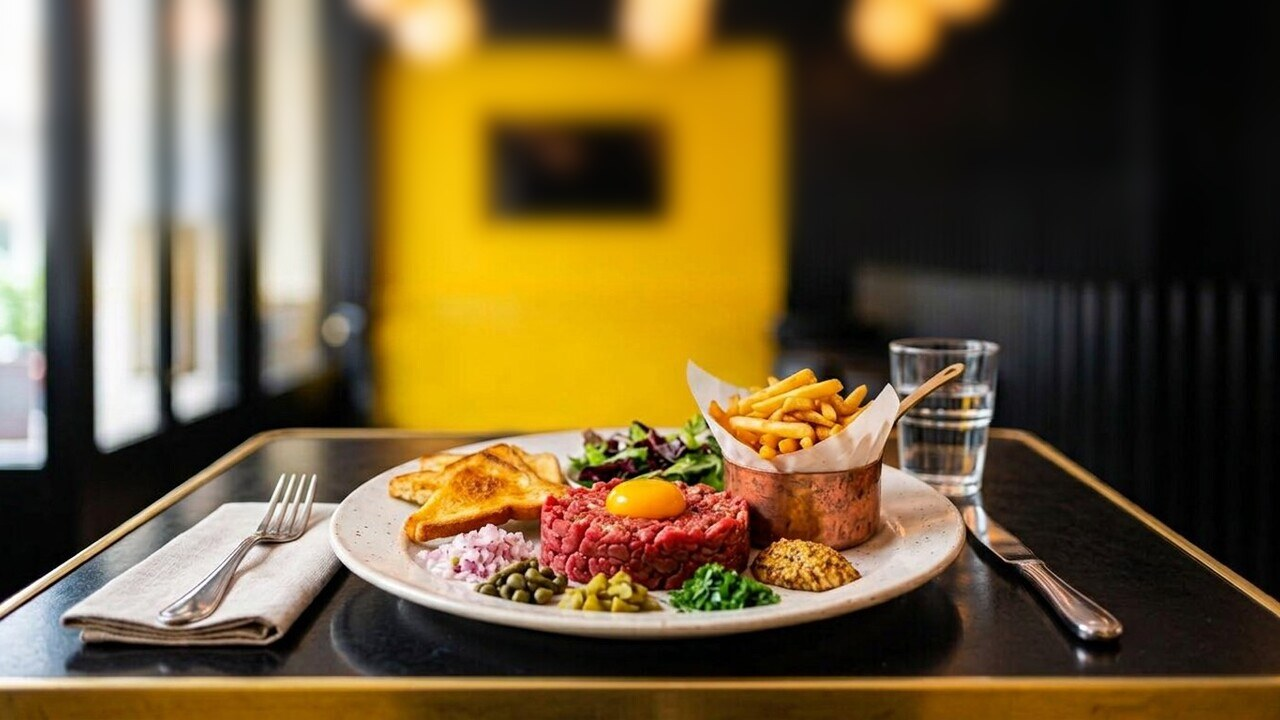
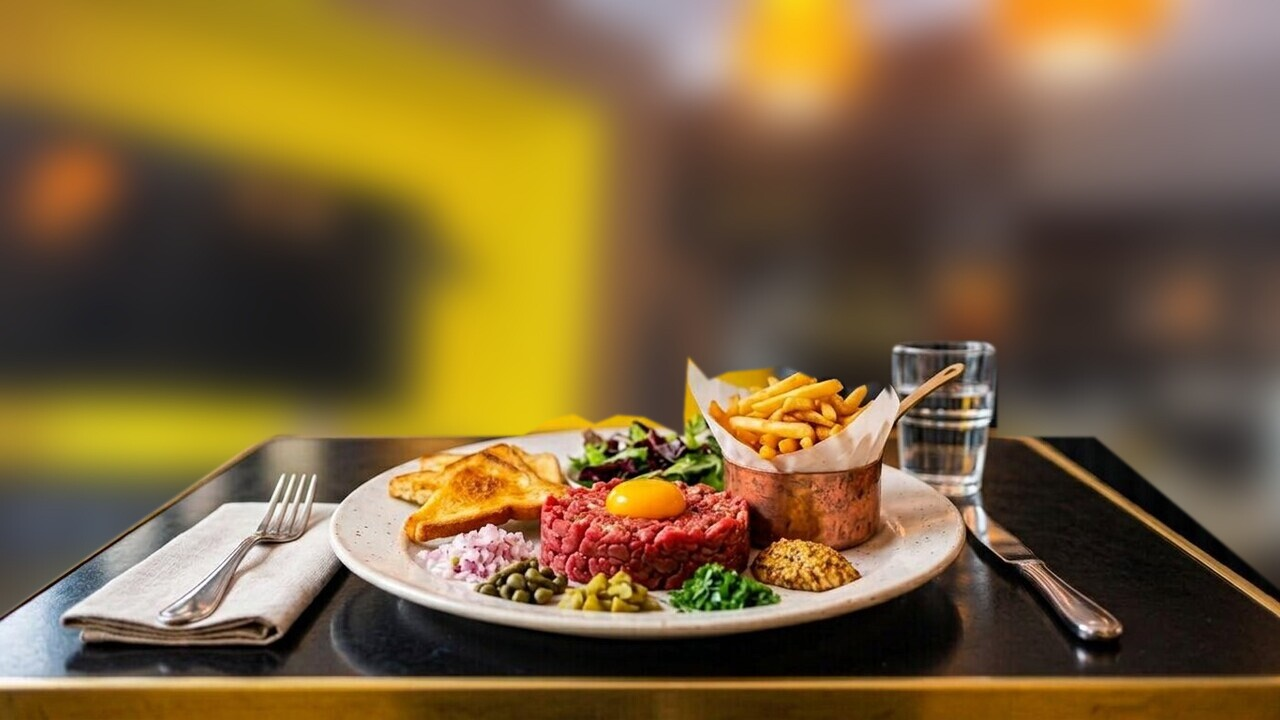
Tartare : utiliser la vraie photo TV-bar floutée sans réinventer le décor

diff --git a/index.html b/index.html
@@ -11341,7 +11341,7 @@ html:not(.carte-doc) #plats .food-card--decor45 .food-card__photo img {
     </div>
     <div class="container">
       <section id="entrees" class="menu-section active"><div class="tab-flow"><article class="panel"><div class="panel__head"><h4 class="panel__title">Entrées</h4></div><div class="food-card-grid food-card-grid--wide"><article class="food-card menu-card-grid__item" data-photo="assets/plats/assiette-de-foie-gras-du-sud-ouest.jpg"><div class="food-card__head"><div class="food-card__lead"><h5>Assiette de foie gras du Sud-Ouest</h5><span class="food-card__note">Pain toasté, confiture d’abricots</span></div><strong>17,90</strong></div></article><article class="food-card menu-card-grid__item" data-photo="assets/plats/oeuf-dur-mayonnaise.jpg"><div class="food-card__head"><div class="food-card__lead"><h5>Œuf dur mayonnaise</h5></div><strong>6,20</strong></div></article><article class="food-card menu-card-grid__item" data-photo="assets/plats/6-escargots-au-roquefort.jpg"><div class="food-card__head"><div class="food-card__lead"><h5>6 Escargots au Roquefort</h5></div><strong>7,90</strong></div></article><article class="food-card menu-card-grid__item" data-photo="assets/plats/assiette-de-saumon-fume.jpg"><div class="food-card__head"><div class="food-card__lead"><h5>Assiette de saumon fumé</h5></div><strong>7,50</strong></div></article><article class="food-card menu-card-grid__item" data-photo="assets/plats/tartare-d-avocat-et-crevettes.jpg"><div class="food-card__head"><div class="food-card__lead"><h5>Tartare d’avocat et crevettes</h5></div><strong>7,90</strong></div></article><article class="food-card menu-card-grid__item" data-photo="assets/plats/oeuf-cocotte-du-moment.jpg"><div class="food-card__head"><div class="food-card__lead"><h5>Œuf cocotte du moment</h5></div><strong>7,90</strong></div></article></div></article><article class="panel"><div class="panel__head"><h4 class="panel__title">Planches &amp; croques</h4></div><div class="food-card-grid food-card-grid--wide"><article class="food-card menu-card-grid__item" data-photo="assets/plats/la-cochonnaille.jpg"><div class="food-card__head"><div class="food-card__lead"><h5>La Cochonnaille</h5></div><strong>17,50</strong></div></article><article class="food-card menu-card-grid__item" data-photo="assets/plats/la-fromagere.jpg"><div class="food-card__head"><div class="food-card__lead"><h5>La Fromagère</h5></div><strong>15,90</strong></div></article><article class="food-card menu-card-grid__item" data-photo="assets/plats/la-paysanne.jpg"><div class="food-card__head"><div class="food-card__lead"><h5>La Paysanne</h5><span class="food-card__note">Cochonnaille et fromagère</span></div><strong>19,90</strong></div></article><article class="food-card menu-card-grid__item" data-photo="assets/plats/croque-monsieur.jpg"><div class="food-card__head"><div class="food-card__lead"><h5>Croque-Monsieur</h5><span class="food-card__note">Sandwich grillé jambon-fromage, sauce béchamel</span><span class="food-card__note">Frites et salade</span></div><strong>11,70</strong></div></article><article class="food-card menu-card-grid__item" data-photo="assets/plats/croque-madame.jpg"><div class="food-card__head"><div class="food-card__lead"><h5>Croque-Madame</h5><span class="food-card__note">Sandwich grillé jambon-fromage, sauce béchamel, œuf au plat</span><span class="food-card__note">Frites et salade</span></div><strong>12,70</strong></div></article></div></article><article class="panel"><div class="panel__head"><h4 class="panel__title">Omelettes</h4></div><div class="food-card-grid food-card-grid--wide"><article class="food-card menu-card-grid__item" data-photo="assets/plats/oeufs-au-plat.jpg"><div class="food-card__head"><div class="food-card__lead"><h5>Œufs au plat</h5><span class="food-card__note">Salade</span></div><strong>9,90</strong></div></article><article class="food-card menu-card-grid__item" data-photo="assets/plats/omelette-nature.jpg"><div class="food-card__head"><div class="food-card__lead"><h5>Omelette nature</h5><span class="food-card__note">Salade</span></div><strong>9,90</strong></div></article><article class="food-card menu-card-grid__item" data-photo="assets/plats/omelette-au-fromage.jpg"><div class="food-card__head"><div class="food-card__lead"><h5>Omelette au fromage</h5><span class="food-card__note">Salade</span></div><strong>10,90</strong></div></article><article class="food-card menu-card-grid__item" data-photo="assets/plats/omelette-au-jambon.jpg"><div class="food-card__head"><div class="food-card__lead"><h5>Omelette au jambon</h5><span class="food-card__note">Salade</span></div><strong>10,90</strong></div></article><article class="food-card menu-card-grid__item" data-photo="assets/plats/omelette-mixte.jpg"><div class="food-card__head"><div class="food-card__lead"><h5>Omelette mixte</h5><span class="food-card__note">Salade</span></div><strong>13,90</strong></div></article><article class="food-card menu-card-grid__item" data-photo="assets/plats/omelette-aux-champignons.jpg"><div class="food-card__head"><div class="food-card__lead"><h5>Omelette aux champignons</h5><span class="food-card__note">Salade</span></div><strong>13,70</strong></div></article></div></article></div></section>
-<section id="plats" class="menu-section"><div class="tab-flow"><article class="panel"><div class="panel__head"><h4 class="panel__title">Plats</h4></div><div class="food-card-grid food-card-grid--wide"><article class="food-card food-card--decor45 menu-card-grid__item" data-photo="assets/plats/entrecote-190-g.jpg?v=20261024-salle-rangee"><div class="food-card__head"><div class="food-card__lead"><h5>Entrecôte 190 g</h5><p class="food-card__note">Fleur de sel, sauce au choix</p></div><strong>19,90</strong></div></article><article class="food-card food-card--decor45 menu-card-grid__item" data-photo="assets/plats/bavette-d-aloyau.jpg?v=20261024-premiere-personne"><div class="food-card__head"><div class="food-card__lead"><h5>Bavette d’aloyau</h5><p class="food-card__note">Sauce au choix</p></div><strong>17,50</strong></div></article><article class="food-card food-card--decor45 menu-card-grid__item" data-photo="assets/plats/escalope-de-veau.jpg?v=20261024-salle-rangee"><div class="food-card__head"><div class="food-card__lead"><h5>Escalope de veau</h5><p class="food-card__note">Sauce champignons, pâtes</p></div><strong>19,90</strong></div></article><article class="food-card food-card--decor45 menu-card-grid__item" data-photo="assets/plats/cuisse-de-canard-confite.jpg?v=20261024-salle-rangee"><div class="food-card__head"><div class="food-card__lead"><h5>Cuisse de canard confite</h5></div><strong>19,70</strong></div></article><article class="food-card food-card--decor45 menu-card-grid__item" data-photo="assets/plats/poisson.jpg?v=20261024-salle-rangee"><div class="food-card__head"><div class="food-card__lead"><h5>Poisson</h5><p class="food-card__note">Selon l'arrivage</p></div><strong>17,90</strong></div></article><article class="food-card food-card--decor45 menu-card-grid__item" data-photo="assets/plats/tartare-de-boeuf.jpg?v=20261024-bokeh-bar-tv-baie"><div class="food-card__head"><div class="food-card__lead"><h5>Tartare de bœuf</h5></div><strong>17,80</strong></div></article><article class="food-card food-card--decor45 menu-card-grid__item" data-photo="assets/plats/cuisse-de-poulet-rotie.jpg?v=20261024-premiere-personne"><div class="food-card__head"><div class="food-card__lead"><h5>Cuisse de poulet rôtie</h5><p class="food-card__note">Riz basmati</p></div><strong>15,20</strong></div></article></div></article><article class="panel"><div class="panel__head"><h4 class="panel__title">Burgers</h4></div><div class="food-card-grid"><article class="food-card food-card--decor45 menu-card-grid__item" data-photo="assets/plats/burger-la-colline.jpg?v=20261024-premiere-personne"><div class="food-card__head"><div class="food-card__lead"><h5>Burger La Colline</h5><p class="food-card__note">Pain brioché, cheddar, steak haché, bacon, oignons caramélisés, salade, tomate, sauce burger.</p></div><strong>17,90</strong></div></article><article class="food-card food-card--decor45 menu-card-grid__item" data-photo="assets/plats/le-royal-fishburger.jpg?v=20261024-salle-rangee"><div class="food-card__head"><div class="food-card__lead"><h5>Le Royal Fishburger</h5><p class="food-card__note">Pain brioché, cheddar, poisson pané, légumes grillés, salade, tomate, sauce burger.</p></div><strong>17,70</strong></div></article><article class="food-card food-card--decor45 menu-card-grid__item" data-photo="assets/plats/burger-chicken-croustillant.jpg?v=20261024-salle-rangee"><div class="food-card__head"><div class="food-card__lead"><h5>Burger Chicken Croustillant</h5><p class="food-card__note">Pain brioché, cheddar, escalope de poulet pané croustillant, oignons caramélisés, salade, tomate, sauce burger.</p></div><strong>17,90</strong></div></article><article class="food-card food-card--decor45 menu-card-grid__item" data-photo="assets/plats/burger-vegetarien.jpg?v=20261024-dezoom-leger"><div class="food-card__head"><div class="food-card__lead"><h5>Burger Végétarien</h5><p class="food-card__note">Pain brioché, cheddar, steak végétarien, légumes grillés, salade, tomate, sauce burger.</p></div><strong>17,70</strong></div></article></div></article><article class="panel"><div class="panel__head"><h4 class="panel__title">Salades</h4></div><div class="food-card-grid"><article class="food-card food-card--decor45 menu-card-grid__item" data-photo="assets/plats/la-colline.jpg?v=20261024-dezoom-leger"><div class="food-card__head"><div class="food-card__lead"><h5>La Colline</h5><p class="food-card__note">Salade verte, tomate, escalope de poulet pané, œuf mimosa, croûton, toast de chèvre.</p></div><strong>16,90</strong></div></article><article class="food-card food-card--decor45 menu-card-grid__item" data-photo="assets/plats/chevre-chaud.jpg?v=20261024-dezoom-leger"><div class="food-card__head"><div class="food-card__lead"><h5>Chèvre Chaud</h5><p class="food-card__note">Salade verte, tomate, jambon sec, toast de cabécou, noix, miel.</p></div><strong>16,50</strong></div></article><article class="food-card food-card--decor45 menu-card-grid__item" data-photo="assets/plats/vegetarienne.jpg?v=20261024-dezoom-leger"><div class="food-card__head"><div class="food-card__lead"><h5>Végétarienne</h5><p class="food-card__note">Salade verte, tomate, concombre, haricots verts, légumes grillés, avocat.</p></div><strong>12,60</strong></div></article><article class="food-card food-card--decor45 menu-card-grid__item" data-photo="assets/plats/nordique.jpg?v=20261024-table-naturelle"><div class="food-card__head"><div class="food-card__lead"><h5>Nordique</h5><p class="food-card__note">Salade verte, saumon fumé, crevettes, avocat, concombre, tomate, feta, croûtons.</p></div><strong>17,20</strong></div></article></div></article><article class="panel"><div class="panel__head"><h4 class="panel__title">Pâtes</h4></div><div class="food-card-grid"><article class="food-card food-card--decor45 menu-card-grid__item" data-photo="assets/plats/tagliatelles-a-la-carbonara.jpg?v=20261024-table-naturelle"><div class="food-card__head"><div class="food-card__lead"><h5>Tagliatelles à la carbonara</h5></div><strong>15,90</strong></div></article><article class="food-card food-card--decor45 menu-card-grid__item" data-photo="assets/plats/tagliatelles-au-saumon.jpg?v=20261024-table-naturelle"><div class="food-card__head"><div class="food-card__lead"><h5>Tagliatelles au saumon</h5></div><strong>16,20</strong></div></article><article class="food-card food-card--decor45 menu-card-grid__item" data-photo="assets/plats/penne-au-poulet-et-champignons.jpg?v=20261024-table-naturelle"><div class="food-card__head"><div class="food-card__lead"><h5>Penne au poulet et champignons</h5></div><strong>16,50</strong></div></article></div></article><article class="panel panel--couscous"><div class="panel__head"><h4 class="panel__title">Couscous</h4><p class="panel__subtitle">À déguster chaque vendredi et samedi (midi et soir).</p></div><div class="food-card-grid"><article class="food-card food-card--decor45 menu-card-grid__item" data-photo="assets/plats/couscous-poulet.jpg?v=20261024-table-naturelle"><div class="food-card__head"><div class="food-card__lead"><h5>Poulet</h5><p class="food-card__note">Semoule fine, légumes mijotés et bouillon maison.</p></div><strong>15,60</strong></div></article><article class="food-card food-card--decor45 menu-card-grid__item" data-photo="assets/plats/couscous-merguez.jpg?v=20261024-table-naturelle"><div class="food-card__head"><div class="food-card__lead"><h5>Merguez</h5><p class="food-card__note">Semoule fine, légumes mijotés et bouillon maison.</p></div><strong>15,60</strong></div></article><article class="food-card food-card--decor45 menu-card-grid__item" data-photo="assets/plats/couscous-agneau.jpg?v=20261024-table-naturelle"><div class="food-card__head"><div class="food-card__lead"><h5>Brochette d’agneau</h5><p class="food-card__note">Semoule fine, légumes mijotés et bouillon maison.</p></div><strong>16,50</strong></div></article><article class="food-card food-card--decor45 menu-card-grid__item" data-photo="assets/plats/couscous-boeuf.jpg?v=20261024-table-naturelle"><div class="food-card__head"><div class="food-card__lead"><h5>Bœuf</h5><p class="food-card__note">Semoule fine, légumes mijotés et bouillon maison.</p></div><strong>16,50</strong></div></article><article class="food-card food-card--decor45 menu-card-grid__item" data-photo="assets/plats/couscous-vegetarien.jpg?v=20261024-table-naturelle"><div class="food-card__head"><div class="food-card__lead"><h5>Végétarien</h5><p class="food-card__note">Semoule fine, légumes mijotés et bouillon maison.</p></div><strong>13,50</strong></div></article><article class="food-card food-card--decor45 menu-card-grid__item" data-photo="assets/plats/couscous-trois-viandes.jpg?v=20261024-table-naturelle"><div class="food-card__head"><div class="food-card__lead"><h5>La Colline</h5><p class="food-card__note">Poulet, agneau et bœuf. Semoule fine, légumes mijotés et bouillon maison.</p></div><strong>22,90</strong></div></article></div></article><article class="panel panel--accent"><div class="accent-band"><img class="accent-band__motif" src="assets/menus/motif-80a.png" alt="" aria-hidden="true" loading="lazy" width="80" height="80"><div class="accent-band__title"><strong>Assiette de frites</strong><span>4,90</span></div><p>Accompagnement : frites, haricots verts, pâtes</p><p class="accent-band__sauce">Sauce au choix : poivre · champignons · roquefort — supplément sauce 2,00</p></div></article></div></section>
+<section id="plats" class="menu-section"><div class="tab-flow"><article class="panel"><div class="panel__head"><h4 class="panel__title">Plats</h4></div><div class="food-card-grid food-card-grid--wide"><article class="food-card food-card--decor45 menu-card-grid__item" data-photo="assets/plats/entrecote-190-g.jpg?v=20261024-salle-rangee"><div class="food-card__head"><div class="food-card__lead"><h5>Entrecôte 190 g</h5><p class="food-card__note">Fleur de sel, sauce au choix</p></div><strong>19,90</strong></div></article><article class="food-card food-card--decor45 menu-card-grid__item" data-photo="assets/plats/bavette-d-aloyau.jpg?v=20261024-premiere-personne"><div class="food-card__head"><div class="food-card__lead"><h5>Bavette d’aloyau</h5><p class="food-card__note">Sauce au choix</p></div><strong>17,50</strong></div></article><article class="food-card food-card--decor45 menu-card-grid__item" data-photo="assets/plats/escalope-de-veau.jpg?v=20261024-salle-rangee"><div class="food-card__head"><div class="food-card__lead"><h5>Escalope de veau</h5><p class="food-card__note">Sauce champignons, pâtes</p></div><strong>19,90</strong></div></article><article class="food-card food-card--decor45 menu-card-grid__item" data-photo="assets/plats/cuisse-de-canard-confite.jpg?v=20261024-salle-rangee"><div class="food-card__head"><div class="food-card__lead"><h5>Cuisse de canard confite</h5></div><strong>19,70</strong></div></article><article class="food-card food-card--decor45 menu-card-grid__item" data-photo="assets/plats/poisson.jpg?v=20261024-salle-rangee"><div class="food-card__head"><div class="food-card__lead"><h5>Poisson</h5><p class="food-card__note">Selon l'arrivage</p></div><strong>17,90</strong></div></article><article class="food-card food-card--decor45 menu-card-grid__item" data-photo="assets/plats/tartare-de-boeuf.jpg?v=20261024-vrai-fond-tv-bar"><div class="food-card__head"><div class="food-card__lead"><h5>Tartare de bœuf</h5></div><strong>17,80</strong></div></article><article class="food-card food-card--decor45 menu-card-grid__item" data-photo="assets/plats/cuisse-de-poulet-rotie.jpg?v=20261024-premiere-personne"><div class="food-card__head"><div class="food-card__lead"><h5>Cuisse de poulet rôtie</h5><p class="food-card__note">Riz basmati</p></div><strong>15,20</strong></div></article></div></article><article class="panel"><div class="panel__head"><h4 class="panel__title">Burgers</h4></div><div class="food-card-grid"><article class="food-card food-card--decor45 menu-card-grid__item" data-photo="assets/plats/burger-la-colline.jpg?v=20261024-premiere-personne"><div class="food-card__head"><div class="food-card__lead"><h5>Burger La Colline</h5><p class="food-card__note">Pain brioché, cheddar, steak haché, bacon, oignons caramélisés, salade, tomate, sauce burger.</p></div><strong>17,90</strong></div></article><article class="food-card food-card--decor45 menu-card-grid__item" data-photo="assets/plats/le-royal-fishburger.jpg?v=20261024-salle-rangee"><div class="food-card__head"><div class="food-card__lead"><h5>Le Royal Fishburger</h5><p class="food-card__note">Pain brioché, cheddar, poisson pané, légumes grillés, salade, tomate, sauce burger.</p></div><strong>17,70</strong></div></article><article class="food-card food-card--decor45 menu-card-grid__item" data-photo="assets/plats/burger-chicken-croustillant.jpg?v=20261024-salle-rangee"><div class="food-card__head"><div class="food-card__lead"><h5>Burger Chicken Croustillant</h5><p class="food-card__note">Pain brioché, cheddar, escalope de poulet pané croustillant, oignons caramélisés, salade, tomate, sauce burger.</p></div><strong>17,90</strong></div></article><article class="food-card food-card--decor45 menu-card-grid__item" data-photo="assets/plats/burger-vegetarien.jpg?v=20261024-dezoom-leger"><div class="food-card__head"><div class="food-card__lead"><h5>Burger Végétarien</h5><p class="food-card__note">Pain brioché, cheddar, steak végétarien, légumes grillés, salade, tomate, sauce burger.</p></div><strong>17,70</strong></div></article></div></article><article class="panel"><div class="panel__head"><h4 class="panel__title">Salades</h4></div><div class="food-card-grid"><article class="food-card food-card--decor45 menu-card-grid__item" data-photo="assets/plats/la-colline.jpg?v=20261024-dezoom-leger"><div class="food-card__head"><div class="food-card__lead"><h5>La Colline</h5><p class="food-card__note">Salade verte, tomate, escalope de poulet pané, œuf mimosa, croûton, toast de chèvre.</p></div><strong>16,90</strong></div></article><article class="food-card food-card--decor45 menu-card-grid__item" data-photo="assets/plats/chevre-chaud.jpg?v=20261024-dezoom-leger"><div class="food-card__head"><div class="food-card__lead"><h5>Chèvre Chaud</h5><p class="food-card__note">Salade verte, tomate, jambon sec, toast de cabécou, noix, miel.</p></div><strong>16,50</strong></div></article><article class="food-card food-card--decor45 menu-card-grid__item" data-photo="assets/plats/vegetarienne.jpg?v=20261024-dezoom-leger"><div class="food-card__head"><div class="food-card__lead"><h5>Végétarienne</h5><p class="food-card__note">Salade verte, tomate, concombre, haricots verts, légumes grillés, avocat.</p></div><strong>12,60</strong></div></article><article class="food-card food-card--decor45 menu-card-grid__item" data-photo="assets/plats/nordique.jpg?v=20261024-table-naturelle"><div class="food-card__head"><div class="food-card__lead"><h5>Nordique</h5><p class="food-card__note">Salade verte, saumon fumé, crevettes, avocat, concombre, tomate, feta, croûtons.</p></div><strong>17,20</strong></div></article></div></article><article class="panel"><div class="panel__head"><h4 class="panel__title">Pâtes</h4></div><div class="food-card-grid"><article class="food-card food-card--decor45 menu-card-grid__item" data-photo="assets/plats/tagliatelles-a-la-carbonara.jpg?v=20261024-table-naturelle"><div class="food-card__head"><div class="food-card__lead"><h5>Tagliatelles à la carbonara</h5></div><strong>15,90</strong></div></article><article class="food-card food-card--decor45 menu-card-grid__item" data-photo="assets/plats/tagliatelles-au-saumon.jpg?v=20261024-table-naturelle"><div class="food-card__head"><div class="food-card__lead"><h5>Tagliatelles au saumon</h5></div><strong>16,20</strong></div></article><article class="food-card food-card--decor45 menu-card-grid__item" data-photo="assets/plats/penne-au-poulet-et-champignons.jpg?v=20261024-table-naturelle"><div class="food-card__head"><div class="food-card__lead"><h5>Penne au poulet et champignons</h5></div><strong>16,50</strong></div></article></div></article><article class="panel panel--couscous"><div class="panel__head"><h4 class="panel__title">Couscous</h4><p class="panel__subtitle">À déguster chaque vendredi et samedi (midi et soir).</p></div><div class="food-card-grid"><article class="food-card food-card--decor45 menu-card-grid__item" data-photo="assets/plats/couscous-poulet.jpg?v=20261024-table-naturelle"><div class="food-card__head"><div class="food-card__lead"><h5>Poulet</h5><p class="food-card__note">Semoule fine, légumes mijotés et bouillon maison.</p></div><strong>15,60</strong></div></article><article class="food-card food-card--decor45 menu-card-grid__item" data-photo="assets/plats/couscous-merguez.jpg?v=20261024-table-naturelle"><div class="food-card__head"><div class="food-card__lead"><h5>Merguez</h5><p class="food-card__note">Semoule fine, légumes mijotés et bouillon maison.</p></div><strong>15,60</strong></div></article><article class="food-card food-card--decor45 menu-card-grid__item" data-photo="assets/plats/couscous-agneau.jpg?v=20261024-table-naturelle"><div class="food-card__head"><div class="food-card__lead"><h5>Brochette d’agneau</h5><p class="food-card__note">Semoule fine, légumes mijotés et bouillon maison.</p></div><strong>16,50</strong></div></article><article class="food-card food-card--decor45 menu-card-grid__item" data-photo="assets/plats/couscous-boeuf.jpg?v=20261024-table-naturelle"><div class="food-card__head"><div class="food-card__lead"><h5>Bœuf</h5><p class="food-card__note">Semoule fine, légumes mijotés et bouillon maison.</p></div><strong>16,50</strong></div></article><article class="food-card food-card--decor45 menu-card-grid__item" data-photo="assets/plats/couscous-vegetarien.jpg?v=20261024-table-naturelle"><div class="food-card__head"><div class="food-card__lead"><h5>Végétarien</h5><p class="food-card__note">Semoule fine, légumes mijotés et bouillon maison.</p></div><strong>13,50</strong></div></article><article class="food-card food-card--decor45 menu-card-grid__item" data-photo="assets/plats/couscous-trois-viandes.jpg?v=20261024-table-naturelle"><div class="food-card__head"><div class="food-card__lead"><h5>La Colline</h5><p class="food-card__note">Poulet, agneau et bœuf. Semoule fine, légumes mijotés et bouillon maison.</p></div><strong>22,90</strong></div></article></div></article><article class="panel panel--accent"><div class="accent-band"><img class="accent-band__motif" src="assets/menus/motif-80a.png" alt="" aria-hidden="true" loading="lazy" width="80" height="80"><div class="accent-band__title"><strong>Assiette de frites</strong><span>4,90</span></div><p>Accompagnement : frites, haricots verts, pâtes</p><p class="accent-band__sauce">Sauce au choix : poivre · champignons · roquefort — supplément sauce 2,00</p></div></article></div></section>
 <section id="menus" class="menu-section"><div class="tab-flow"><article class="panel"><div class="panel__head"><h4 class="panel__title">Formules</h4></div>
 <div class="fm" data-ref="Formules.pdf">
   <!-- ============ Formule « duo » : entrée + plat, ou plat + dessert ============ -->

diff --git a/tools/PHOTO_STYLE.md b/tools/PHOTO_STYLE.md
@@ -1,15 +1,18 @@
 # Ton photographique du site
 
-## Priorité actuelle : bokeh extrême, bar / TV / baie vitrée
-La demande précédente sur la salle rangée ne doit plus conduire à montrer
-les rangées de tables et de chaises. Le propriétaire veut le PLAT NET et
-l’arrière-plan très flouté : seulement le bar à droite, la TV dans sa niche
-jaune à gauche du bar et la grande baie vitrée noire à gauche, suggérés par
-des formes douces. Pas de mobilier répétitif, pas de dossiers partout.
-Conserver le point de vue du client assis et la table noire crédible.
-Le tartare est refait comme proposition de référence : attendre le retour
-avant de décliner aux23autres. Suivi `tools/plats-photos-progress.json`.
-Textes, recettes, prix et PDF inchangés. Format16:9 1280×720.
+## Priorité actuelle : vraie photo TV+bar fortement floutée
+Le propriétaire a accepté d’utiliser le cadrage réel de IMG_2830 (TV+bar),
+sans ajouter de baie vitrée hors champ. **Ne plus faire générer une salle** :
+conserver la géométrie de cette vraie photo, recadrée proportionnellement et
+fortement floutée, puis placer le premier plan net (table et plat) devant.
+Le tartare est le premier montage de référence. Le fond est issu directement
+de IMG_2830 : réduction à1280px, recadrage vertical nord16:9 et flou sigma22.
+Les fichiers source du montage et le masque sont conservés dans
+`/home/user/photo-background-work/` ; la photo réelle dans
+`/home/user/restaurant-references/IMG_2830.jpeg`. Le premier plan avant montage
+correspond au tartare du commit eb35e60. Les23autres ne sont pas encore adaptés.
+Pas de chaises dispersées, pas de détails de salle nets. Plat net, lumière
+chaleureuse, point de vue du client assis. Textes/prix/PDF inchangés.
 
 Les gabarits historiques ci-dessous ne priment pas sur ce bloc pour Nos plats.
 
